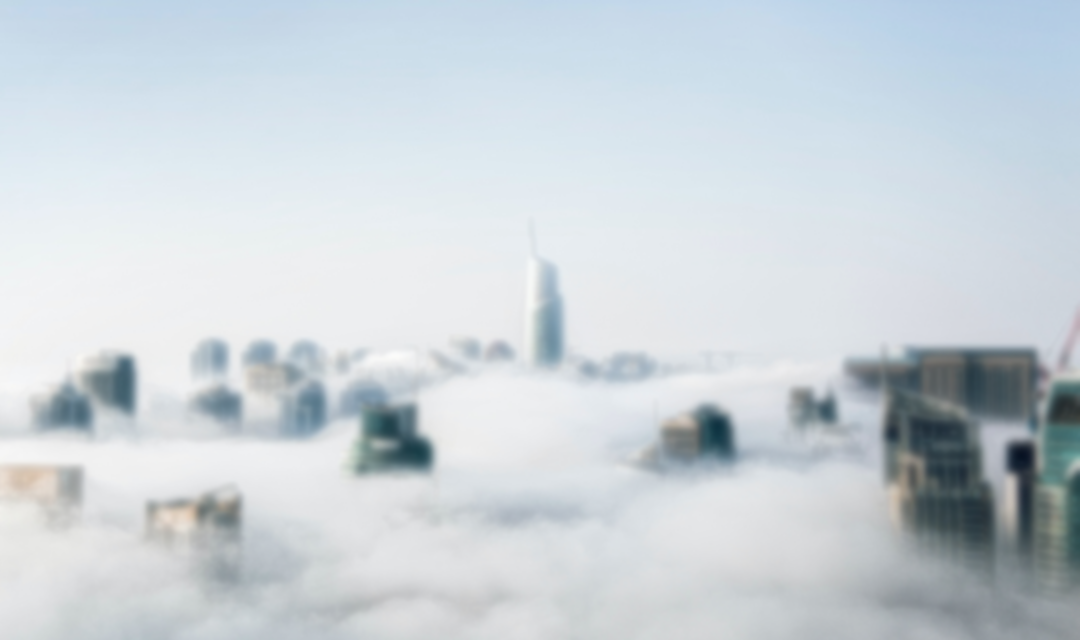
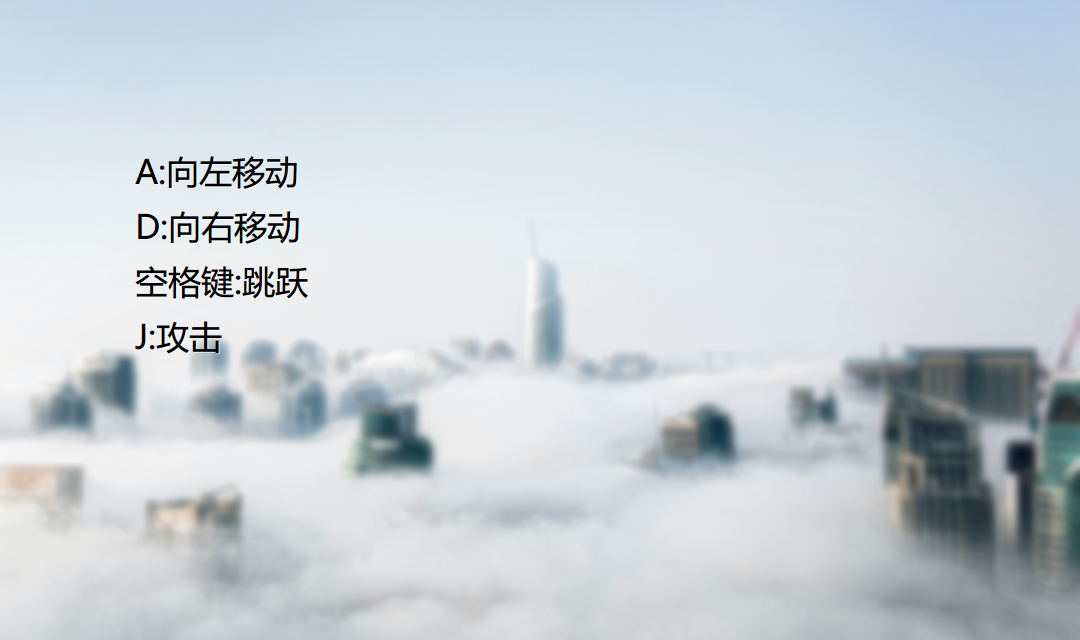
final version

Changed region(s): [[0.1222, 0.25, 0.275, 0.375], [0.1222, 0.4062, 0.3056, 0.4688], [0.1222, 0.5, 0.2139, 0.5625]]

diff --git a/EmojiScene.cpp b/EmojiScene.cpp
@@ -40,10 +40,10 @@ EmojiScene::EmojiScene()
 	mMap->setPlatform(250, PLATFORM2, "Platform.png");
 	mMap->setPlatform(width() - 250 - platformRect.width(), PLATFORM2, "Platform.png");
 	mMap->setPlatform(width() - 100 - platformRect.width(), PLATFORM3, "Platform.png");
-	mMap->setPlatform(20, PLATFORM1, "Platform.png");
-	mMap->setPlatform(280, PLATFORM1, "Platform.png");
-	mMap->setPlatform(width() - 280 - platformRect.width(), PLATFORM1, "Platform.png");
-	mMap->setPlatform(width() - 20 - platformRect.width(), PLATFORM1, "Platform.png");
+	//mMap->setPlatform(20, PLATFORM1, "Platform.png");
+	//mMap->setPlatform(280, PLATFORM1, "Platform.png");
+	//mMap->setPlatform(width() - 280 - platformRect.width(), PLATFORM1, "Platform.png");
+	//mMap->setPlatform(width() - 20 - platformRect.width(), PLATFORM1, "Platform.png");
 	mMap->buildGraph(180, 180);
 
 	for (int i = 0; i < mPlatforms.size(); ++i)

diff --git a/CharacterWindow.cpp b/CharacterWindow.cpp
@@ -6,7 +6,7 @@ CharacterWindow::CharacterWindow(QWidget *parent) :
     QWidget(parent),mConBtn(Q_NULLPTR),mReBtn(Q_NULLPTR),
     mGameView(Q_NULLPTR),mScene(Q_NULLPTR)
 {
-    this->setWindowTitle("choose one character");
+    this->setWindowTitle("Tutorial");
     this->setFixedSize(1080,640);
 
 
